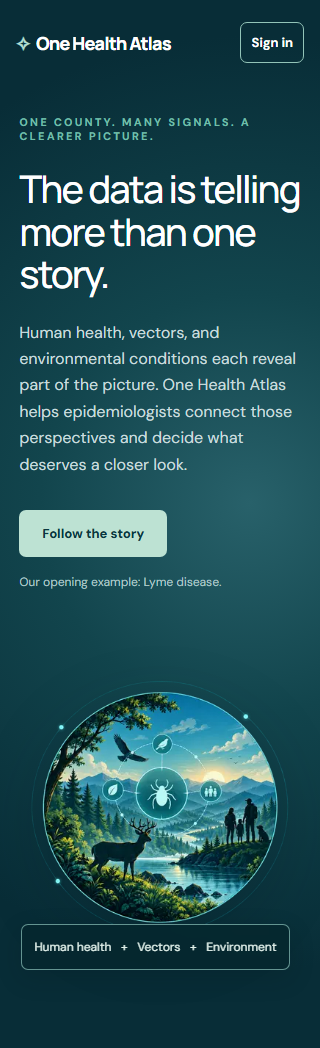
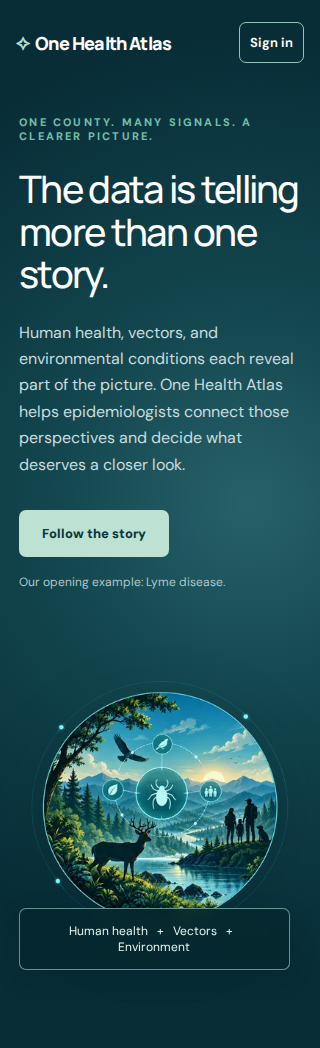
Capture Front Porch visuals from clean production runtime

diff --git a/design-references/front-porch/review/index.html b/design-references/front-porch/review/index.html
@@ -1,1 +1,1 @@
-<!doctype html><html lang="en"><meta charset="utf-8"><meta name="viewport" content="width=device-width,initial-scale=1"><title>Web 483 visual review</title><style>body{font:16px system-ui;margin:24px;background:#f6f7f2;color:#133841}.grid{display:grid;grid-template-columns:repeat(auto-fit,minmax(280px,1fr));gap:20px}figure{margin:0}figcaption{padding:12px 0}img{width:100%;height:auto}section{margin-bottom:48px}</style><h1>Web #483 — product-owner visual review</h1><p>Original prototype, production baseline, candidate and highlighted comparison. Click an image for full resolution. Copy changes follow #475; the provisional county is omitted. At 320px header and callout padding prevent clipping. Qualitative scenes 2–6 remain interim.</p><p>Direct hero comparison: 1440px: 0.468%; 1280px: 0.515%; 390px: 0.429%; 320px: 1.591%. Maximum 2%; RGB channel delta tolerance 51/255. No masking.</p><section><h2>1440px</h2><div class="grid"><figure><figcaption>Original approved prototype (older copy)</figcaption><a href="approved-original-1440.png"><img src="approved-original-1440.png" alt="Original approved prototype (older copy) at 1440px"></a></figure><figure><figcaption>Production before this correction</figcaption><a href="baseline-1440.png"><img src="baseline-1440.png" alt="Production before this correction at 1440px"></a></figure><figure><figcaption>New React implementation</figcaption><a href="implementation-page-1440.png"><img src="implementation-page-1440.png" alt="New React implementation at 1440px"></a></figure><figure><figcaption>Reference with finalized copy</figcaption><a href="approved-with-final-copy-1440.png"><img src="approved-with-final-copy-1440.png" alt="Reference with finalized copy at 1440px"></a></figure><figure><figcaption>Highlighted direct comparison</figcaption><a href="highlighted-reference-diff-1440.png"><img src="highlighted-reference-diff-1440.png" alt="Highlighted direct comparison at 1440px"></a></figure></div></section><section><h2>1280px</h2><div class="grid"><figure><figcaption>Original approved prototype (older copy)</figcaption><a href="approved-original-1280.png"><img src="approved-original-1280.png" alt="Original approved prototype (older copy) at 1280px"></a></figure><figure><figcaption>Production before this correction</figcaption><a href="baseline-1280.png"><img src="baseline-1280.png" alt="Production before this correction at 1280px"></a></figure><figure><figcaption>New React implementation</figcaption><a href="implementation-page-1280.png"><img src="implementation-page-1280.png" alt="New React implementation at 1280px"></a></figure><figure><figcaption>Reference with finalized copy</figcaption><a href="approved-with-final-copy-1280.png"><img src="approved-with-final-copy-1280.png" alt="Reference with finalized copy at 1280px"></a></figure><figure><figcaption>Highlighted direct comparison</figcaption><a href="highlighted-reference-diff-1280.png"><img src="highlighted-reference-diff-1280.png" alt="Highlighted direct comparison at 1280px"></a></figure></div></section><section><h2>390px</h2><div class="grid"><figure><figcaption>Original approved prototype (older copy)</figcaption><a href="approved-original-390.png"><img src="approved-original-390.png" alt="Original approved prototype (older copy) at 390px"></a></figure><figure><figcaption>Production before this correction</figcaption><a href="baseline-390.png"><img src="baseline-390.png" alt="Production before this correction at 390px"></a></figure><figure><figcaption>New React implementation</figcaption><a href="implementation-page-390.png"><img src="implementation-page-390.png" alt="New React implementation at 390px"></a></figure><figure><figcaption>Reference with finalized copy</figcaption><a href="approved-with-final-copy-390.png"><img src="approved-with-final-copy-390.png" alt="Reference with finalized copy at 390px"></a></figure><figure><figcaption>Highlighted direct comparison</figcaption><a href="highlighted-reference-diff-390.png"><img src="highlighted-reference-diff-390.png" alt="Highlighted direct comparison at 390px"></a></figure></div></section><section><h2>320px</h2><div class="grid"><figure><figcaption>Original approved prototype (older copy)</figcaption><a href="approved-original-320.png"><img src="approved-original-320.png" alt="Original approved prototype (older copy) at 320px"></a></figure><figure><figcaption>Production before this correction</figcaption><a href="baseline-320.png"><img src="baseline-320.png" alt="Production before this correction at 320px"></a></figure><figure><figcaption>New React implementation</figcaption><a href="implementation-page-320.png"><img src="implementation-page-320.png" alt="New React implementation at 320px"></a></figure><figure><figcaption>Reference with finalized copy</figcaption><a href="approved-with-final-copy-320.png"><img src="approved-with-final-copy-320.png" alt="Reference with finalized copy at 320px"></a></figure><figure><figcaption>Highlighted direct comparison</figcaption><a href="highlighted-reference-diff-320.png"><img src="highlighted-reference-diff-320.png" alt="Highlighted direct comparison at 320px"></a></figure></div></section></html>
+<!doctype html><html lang="en"><meta charset="utf-8"><meta name="viewport" content="width=device-width,initial-scale=1"><title>Web 483 visual review</title><style>body{font:16px system-ui;margin:24px;background:#f6f7f2;color:#133841}.grid{display:grid;grid-template-columns:repeat(auto-fit,minmax(280px,1fr));gap:20px}figure{margin:0}figcaption{padding:12px 0}img{width:100%;height:auto}section{margin-bottom:48px}</style><h1>Web #483 — product-owner visual review</h1><p>Original prototype, production baseline, candidate and highlighted comparison. Click an image for full resolution. Copy changes follow #475; the provisional county is omitted. At 320px header and callout padding prevent clipping. Qualitative scenes 2–6 remain interim.</p><p>Direct hero comparison: 1440px: 0.573%; 1280px: 0.643%; 390px: 0.472%; 320px: 1.172%. Maximum 2%; RGB channel delta tolerance 51/255. No masking.</p><section><h2>1440px</h2><div class="grid"><figure><figcaption>Original approved prototype (older copy)</figcaption><a href="approved-original-1440.png"><img src="approved-original-1440.png" alt="Original approved prototype (older copy) at 1440px"></a></figure><figure><figcaption>Production before this correction</figcaption><a href="baseline-1440.png"><img src="baseline-1440.png" alt="Production before this correction at 1440px"></a></figure><figure><figcaption>New React implementation</figcaption><a href="implementation-page-1440.png"><img src="implementation-page-1440.png" alt="New React implementation at 1440px"></a></figure><figure><figcaption>Reference with finalized copy</figcaption><a href="approved-with-final-copy-1440.png"><img src="approved-with-final-copy-1440.png" alt="Reference with finalized copy at 1440px"></a></figure><figure><figcaption>Highlighted direct comparison</figcaption><a href="highlighted-reference-diff-1440.png"><img src="highlighted-reference-diff-1440.png" alt="Highlighted direct comparison at 1440px"></a></figure></div></section><section><h2>1280px</h2><div class="grid"><figure><figcaption>Original approved prototype (older copy)</figcaption><a href="approved-original-1280.png"><img src="approved-original-1280.png" alt="Original approved prototype (older copy) at 1280px"></a></figure><figure><figcaption>Production before this correction</figcaption><a href="baseline-1280.png"><img src="baseline-1280.png" alt="Production before this correction at 1280px"></a></figure><figure><figcaption>New React implementation</figcaption><a href="implementation-page-1280.png"><img src="implementation-page-1280.png" alt="New React implementation at 1280px"></a></figure><figure><figcaption>Reference with finalized copy</figcaption><a href="approved-with-final-copy-1280.png"><img src="approved-with-final-copy-1280.png" alt="Reference with finalized copy at 1280px"></a></figure><figure><figcaption>Highlighted direct comparison</figcaption><a href="highlighted-reference-diff-1280.png"><img src="highlighted-reference-diff-1280.png" alt="Highlighted direct comparison at 1280px"></a></figure></div></section><section><h2>390px</h2><div class="grid"><figure><figcaption>Original approved prototype (older copy)</figcaption><a href="approved-original-390.png"><img src="approved-original-390.png" alt="Original approved prototype (older copy) at 390px"></a></figure><figure><figcaption>Production before this correction</figcaption><a href="baseline-390.png"><img src="baseline-390.png" alt="Production before this correction at 390px"></a></figure><figure><figcaption>New React implementation</figcaption><a href="implementation-page-390.png"><img src="implementation-page-390.png" alt="New React implementation at 390px"></a></figure><figure><figcaption>Reference with finalized copy</figcaption><a href="approved-with-final-copy-390.png"><img src="approved-with-final-copy-390.png" alt="Reference with finalized copy at 390px"></a></figure><figure><figcaption>Highlighted direct comparison</figcaption><a href="highlighted-reference-diff-390.png"><img src="highlighted-reference-diff-390.png" alt="Highlighted direct comparison at 390px"></a></figure></div></section><section><h2>320px</h2><div class="grid"><figure><figcaption>Original approved prototype (older copy)</figcaption><a href="approved-original-320.png"><img src="approved-original-320.png" alt="Original approved prototype (older copy) at 320px"></a></figure><figure><figcaption>Production before this correction</figcaption><a href="baseline-320.png"><img src="baseline-320.png" alt="Production before this correction at 320px"></a></figure><figure><figcaption>New React implementation</figcaption><a href="implementation-page-320.png"><img src="implementation-page-320.png" alt="New React implementation at 320px"></a></figure><figure><figcaption>Reference with finalized copy</figcaption><a href="approved-with-final-copy-320.png"><img src="approved-with-final-copy-320.png" alt="Reference with finalized copy at 320px"></a></figure><figure><figcaption>Highlighted direct comparison</figcaption><a href="highlighted-reference-diff-320.png"><img src="highlighted-reference-diff-320.png" alt="Highlighted direct comparison at 320px"></a></figure></div></section></html>

diff --git a/tests/e2e/front-porch-visual.spec.ts b/tests/e2e/front-porch-visual.spec.ts
@@ -26,10 +26,39 @@ for (const viewport of viewports) {
     page,
     context,
   }, testInfo) => {
+    const runtimeErrors: string[] = [];
+    page.on("pageerror", (error) => runtimeErrors.push(error.message));
     await page.setViewportSize(viewport);
     await page.emulateMedia({ reducedMotion: "reduce" });
     await page.goto("/");
+    await page.locator(".front-porch-support").evaluate(async (element) => {
+      const style = getComputedStyle(element);
+      await document.fonts.load(
+        `${style.fontSize} ${style.fontFamily.split(",")[0]}`
+      );
+    });
     await page.evaluate(() => document.fonts.ready);
+    const fontSession = await context.newCDPSession(page);
+    await fontSession.send("DOM.enable");
+    await fontSession.send("CSS.enable");
+    const { root } = await fontSession.send("DOM.getDocument");
+    const { nodeId } = await fontSession.send("DOM.querySelector", {
+      nodeId: root.nodeId,
+      selector: ".front-porch-support",
+    });
+    const { fonts } = await fontSession.send("CSS.getPlatformFontsForNode", {
+      nodeId,
+    });
+    await testInfo.attach("rendered-body-font", {
+      body: JSON.stringify(fonts),
+      contentType: "application/json",
+    });
+    expect(
+      fonts.some(
+        (font) => font.isCustomFont && font.familyName.startsWith("DM Sans")
+      )
+    ).toBeTruthy();
+    await fontSession.detach();
     await page
       .locator(".front-porch-image-frame img")
       .evaluate((image: HTMLImageElement) => image.decode());
@@ -67,6 +96,7 @@ for (const viewport of viewports) {
       await page.evaluate(() => document.documentElement.scrollWidth)
     ).toBe(viewport.width);
     expect((await new AxeBuilder({ page }).analyze()).violations).toEqual([]);
+    await expect(page.locator("nextjs-portal")).toHaveCount(0);
     const actual = await hero.screenshot({ animations: "disabled" });
     await attachImage(
       testInfo,
@@ -74,14 +104,6 @@ for (const viewport of viewports) {
       await page.screenshot({ animations: "disabled" })
     );
     await attachImage(testInfo, "implementation", actual);
-    await expect(hero).toHaveScreenshot(`front-porch-${viewport.width}.png`, {
-      animations: "disabled",
-      maxDiffPixelRatio: 0.02,
-    });
-    await expect(page.locator(".front-porch-beat").first()).toHaveScreenshot(
-      `first-transition-${viewport.width}.png`,
-      { animations: "disabled", maxDiffPixelRatio: 0.02 }
-    );
     await expect(page.locator(".front-porch-beat").first()).toHaveCSS(
       "padding-top",
       "90px"
@@ -246,6 +268,15 @@ for (const viewport of viewports) {
       }
     }
     await reference.close();
+    expect(runtimeErrors).toEqual([]);
+    await expect(hero).toHaveScreenshot(`front-porch-${viewport.width}.png`, {
+      animations: "disabled",
+      maxDiffPixelRatio: 0.02,
+    });
+    await expect(page.locator(".front-porch-beat").first()).toHaveScreenshot(
+      `first-transition-${viewport.width}.png`,
+      { animations: "disabled", maxDiffPixelRatio: 0.02 }
+    );
   });
 }
 

diff --git a/playwright.config.ts b/playwright.config.ts
@@ -1,9 +1,13 @@
 import { defineConfig, devices } from "@playwright/test";
 
+const productionVisuals = process.env.ATLAS_VISUAL_PRODUCTION === "1";
+
 export default defineConfig({
   // Playwright deletes outputDir at the start of each run. Keep traces here so
   // JUnit files in test-results/ survive the hard and soft e2e steps.
-  outputDir: "test-results/playwright",
+  outputDir: productionVisuals
+    ? "test-results/front-porch-visual"
+    : "test-results/playwright",
   timeout: 60_000,
   workers: 1,
   projects: [
@@ -11,10 +15,14 @@ export default defineConfig({
     { name: "mobile", use: { ...devices["Pixel 7"] } },
   ],
   testDir: "./tests/e2e",
+  testIgnore: productionVisuals ? undefined : "**/front-porch-visual.spec.ts",
+  testMatch: productionVisuals ? "**/front-porch-visual.spec.ts" : undefined,
   snapshotPathTemplate: "{testDir}/{testFilePath}-snapshots/{arg}{ext}",
   use: { baseURL: "http://127.0.0.1:3100", trace: "retain-on-failure" },
   webServer: {
-    command: "npm run dev -- --hostname 127.0.0.1 --port 3100",
+    command: productionVisuals
+      ? "npm run build && npx next start --hostname 127.0.0.1 --port 3100"
+      : "npm run dev -- --hostname 127.0.0.1 --port 3100",
     env: {
       ATLAS_E2E: "1",
       NEXT_PUBLIC_AMPLITUDE_API_KEY: "00000000000000000000000000000000",
@@ -22,7 +30,7 @@ export default defineConfig({
       NEXT_PUBLIC_KG_CHAT_ENABLED: "true",
     },
     reuseExistingServer: false,
-    timeout: 180_000,
+    timeout: productionVisuals ? 600_000 : 180_000,
     url: "http://127.0.0.1:3100",
   },
 });

diff --git a/design-references/front-porch/visual-report.md b/design-references/front-porch/visual-report.md
@@ -8,16 +8,24 @@ Candidate based on `origin/main` at `f09fa3db368d16ff9e7f0dab4e89cfebb82e69a0`. 
 
 | Viewport   | Direct hero pixel mismatch | Limit |
 | ---------- | -------------------------- | ----- |
-| 1440 × 900 | 0.468%                     | 2%    |
-| 1280 × 800 | 0.515%                     | 2%    |
-| 390 × 844  | 0.429%                     | 2%    |
-| 320 × 700  | 1.591%                     | 2%    |
+| 1440 × 900 | 0.573%                     | 2%    |
+| 1280 × 800 | 0.643%                     | 2%    |
+| 390 × 844  | 0.472%                     | 2%    |
+| 320 × 700  | 1.172%                     | 2%    |
 
 Method and reference-to-React mapping are in [README.md](README.md). Fonts load locally, motion is reduced, no elements are masked, and direct live-reference comparisons cannot be waived through snapshot updates. Raw approved screenshots retain the prototype's older copy; normalized comparison uses #475 wording and removes the provisional county assertion.
 
 Remaining differences: shorter approved supporting copy; exact Follow the story CTA; Lyme-only fine line; working navigation links and session-aware account label; no decorative sign-in arrow; at 320px a smaller brand, tighter header and panel padding prevent the prototype's clipping. The original PNG is unchanged; Next.js optimized image rounding and antialiasing account for small artwork differences. First scene retains current qualitative paragraphs, rather than older prototype text. Scenes 2–6 remain interim under #476.
 
 ## Verification and independent review
+
+### CI regression correction
+
+The failed [run 37896410384](https://github.com/Caraway-Labs/one-health-lyme-gap-atlas-web/actions/runs/37896410384) used Linux Chromium against Windows-generated reference snapshots. At 390px the saved support paragraph breaks before “One”; the loaded DM Sans capture places “One” on the preceding line. At 320px body/callout metrics change the panel to two lines, and the old hero and first-transition snapshots also contain a red development badge. Artwork and headline geometry match. Both font resources returned HTTP 200 in the failed trace; no browser runtime errors were recorded. Fresh production captures verify custom DM Sans 9pt glyph rendering and pass direct approved-reference comparisons. These results support stale/fallback typography in the old baselines rather than a runtime layout regression.
+
+The original badge's expanded message was not preserved in the failed CI artifacts, so its exact historical trigger cannot be established. A fresh development startup reports the existing middleware-to-proxy deprecation. Production captures contain no development portal and no runtime exceptions; no application or approved-reference changes were needed. Capture now uses the production build, explicitly loads the primary bundled font, verifies rendered glyphs, and collects comparison evidence before snapshot assertions. Only three affected baselines were regenerated; both 2% limits are unchanged.
+
+Current local correction checks: Front Porch unit tests 11/11; production visual tests 10/10 across desktop/mobile; axe and responsive widths 320, 390, 768, 800, 801, 850, 851, 1024 and 1440px; production keyboard/navigation checks 6/6 (signed-in development fixtures are intentionally unavailable in production), development Front Porch routing/keyboard suite 8/8 including signed-in fixtures; lint, typecheck, docs and design-system/UX guards passed; clean Linux production build passed. Independent final review found no actionable findings after inspecting the code and clean desktop/mobile/320px baselines, and recommends product-owner visual review. Earlier implementation checks below are historical; the latest required hosted CI and final peer review are linked in the PR after the correction is pushed.
 
 - `npm ci`: passed; no reported vulnerabilities.
 - `npm run generate:api` and generated-contract diff: passed, no payload/model changes.

diff --git a/design-references/front-porch/README.md b/design-references/front-porch/README.md
@@ -20,6 +20,10 @@ Navigation destinations are the story anchor, published methodology, `/docs`, an
 
 ## Deterministic visual verification
 
+Run `$env:ATLAS_VISUAL_PRODUCTION="1"; npx playwright test tests/e2e/front-porch-visual.spec.ts` in PowerShell (or `ATLAS_VISUAL_PRODUCTION=1 npx playwright test tests/e2e/front-porch-visual.spec.ts` on Linux). This builds and starts the production application. The ordinary development E2E run excludes this file; CI runs it as a separate required quality step. Captures assert no `nextjs-portal`, no browser runtime exceptions, and bundled DM Sans glyph rendering using Chromium's font inspection. Approved-reference attachments are collected before stored-snapshot assertions.
+
+Canonical refreshed baselines were captured on Playwright 1.62.1 Chromium in `mcr.microsoft.com/playwright:v1.62.1-noble` (digest `sha256:dcc5531e97840b9b5e794f2814476b21571c5124a3fca2267d73041f56e7580e`). Only the 390px hero, 320px hero and 320px first-transition snapshots were refreshed. The original HTML and artwork hashes above remain unchanged.
+
 `tests/e2e/front-porch-visual.spec.ts` renders both actual HTML and React at 1440×900, 1280×800, 390×844 and 320×700. Fonts are local licensed Manrope and DM Sans, loaded before capture. Motion is reduced, screenshot animations disabled, and no content is masked. The original HTML is attached untouched; a separately labeled comparison replaces only later-approved paragraph/CTA, qualifies the Lyme example by removing the provisional county, and removes the decorative sign-in arrow. Runtime copy is never taken from the old prototype.
 
 Direct reference comparisons allow at most 2% mismatched pixels, counting pixels whose largest RGB channel delta exceeds 51 (20% of 255). This channel tolerance accommodates edge antialiasing; geometry assertions independently check sizes. No threshold increase is authorized. Stored hero and first-transition snapshots also use Playwright's 2% mismatch cap. Snapshot updates do not bypass direct reference comparisons. CI retains attachments, differences and traces.
